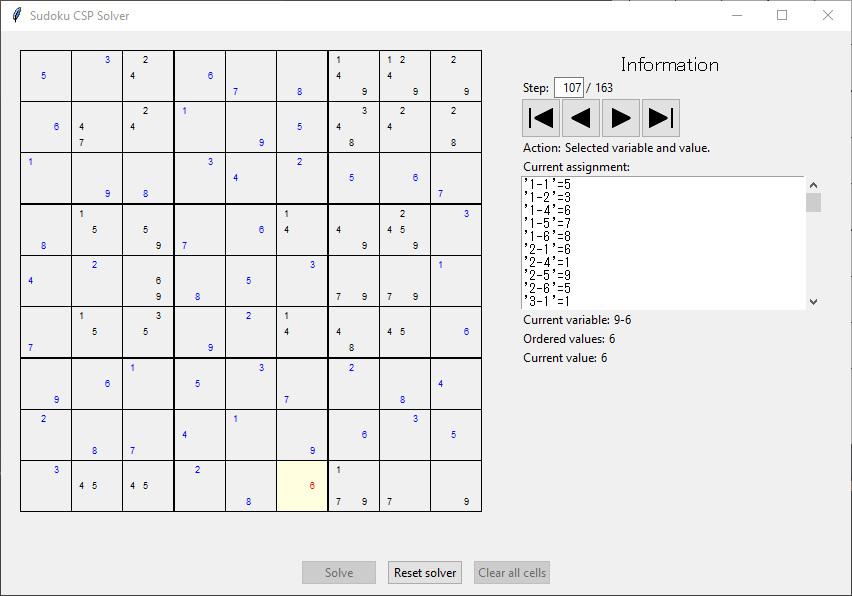
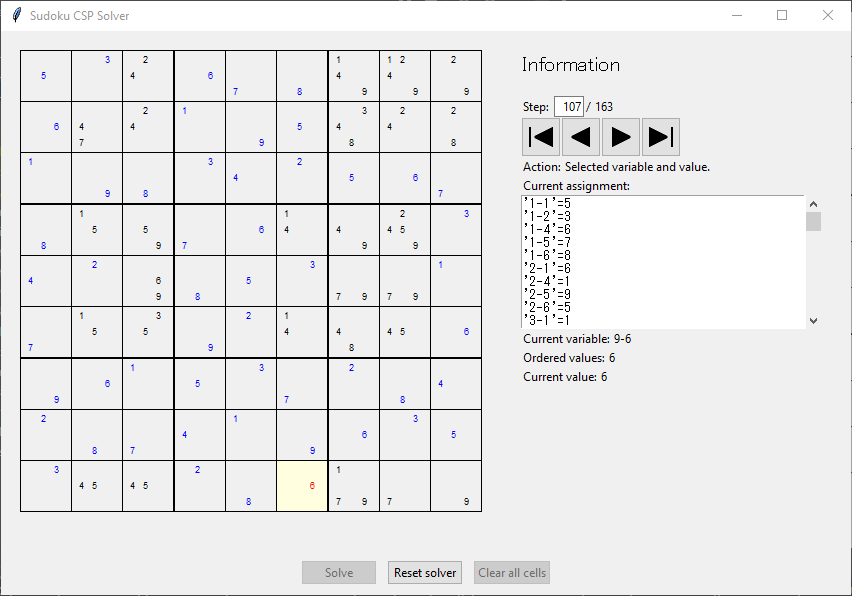
Fix layout of header for info panel.

Changed region(s): [[0.6103, 0.0906, 0.8545, 0.6644], [0.946, 0.302, 0.9765, 0.3926]]

diff --git a/SudokuCSPSolver.py b/SudokuCSPSolver.py
@@ -518,7 +518,9 @@ class InfoPanelView(Frame):
         text_box_width = 40
         text_box_height = 10
         message_text_width = 300
-        Label(self, text="Information", font="TkHeadingFont 16").pack()
+        Label(self, text="Information", font="TkHeadingFont 16").pack(anchor=W)
+        # Spacer
+        Label(self).pack()
         # Step #/#
         step_frame = Frame(self)
         step_frame.pack()
